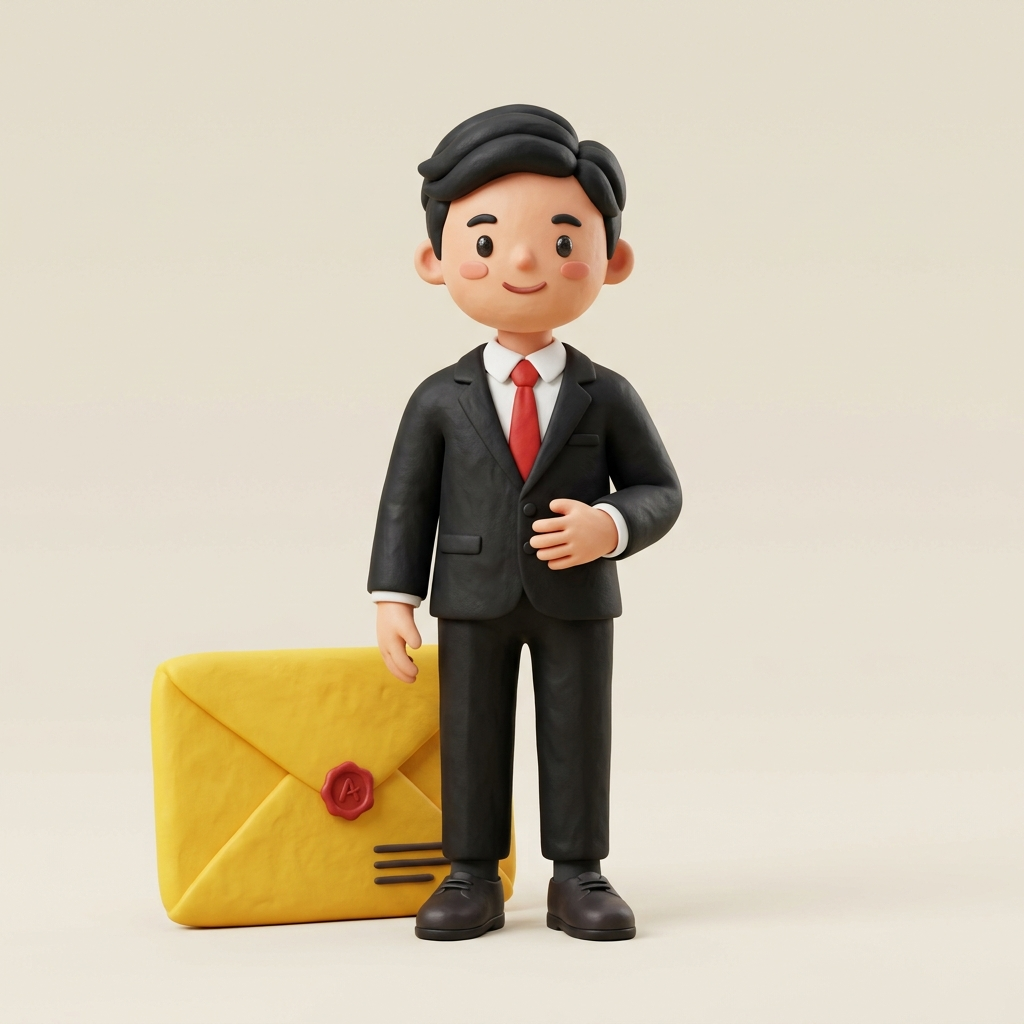
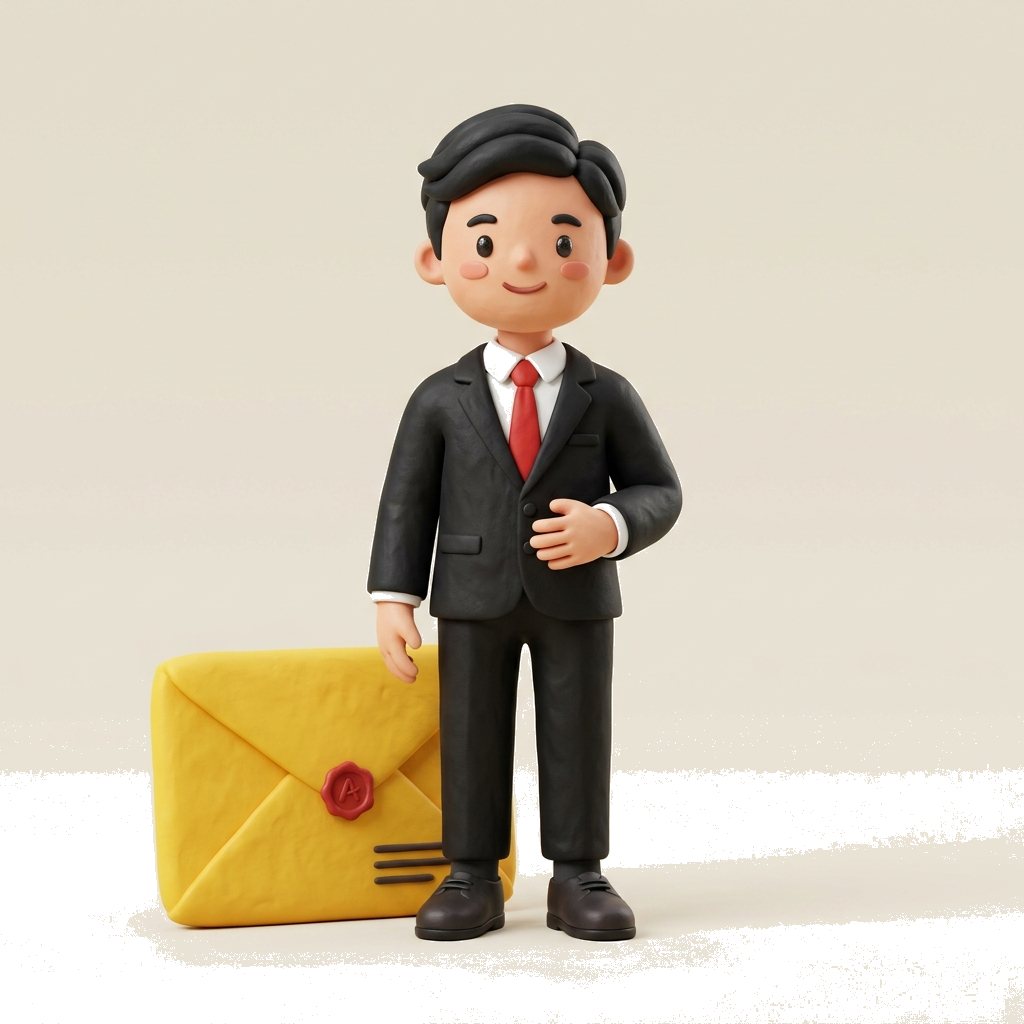
feat(domain): update all verification, update, and landing URLs to new lanpad.app domain & key out support character background

diff --git a/website-v2/src/app/landing2/page.tsx b/website-v2/src/app/landing2/page.tsx
@@ -1705,13 +1705,13 @@ export default function Landing2() {
               <div className="space-y-2 pt-4">
                 <span className="text-[9px] font-mono text-gray-400 font-bold uppercase tracking-wider block">One-Line Terminal Install:</span>
                 <div className="p-3 clay-card shadow-[inset_2px_2px_4px_rgba(0,0,0,0.05)] rounded-xl font-mono text-[9px] text-gray-600 break-all select-all leading-normal border border-white/20">
-                  curl -sSL lanpad.vercel.app/mac | bash
+                  curl -sSL lanpad.app/mac | bash
                 </div>
               </div>
             </div>
 
             <button 
-              onClick={() => copyCommandToClipboard("curl -sSL lanpad.vercel.app/mac | bash")}
+              onClick={() => copyCommandToClipboard("curl -sSL lanpad.app/mac | bash")}
               className="mt-8 w-full clay-orange text-white font-black py-4.5 rounded-2xl text-sm transition-all hover:scale-105 active:scale-95 shadow-md flex items-center justify-center gap-2"
             >
               COPY MAC INSTALL CMD <ArrowRight size={14} />
@@ -1746,13 +1746,13 @@ export default function Landing2() {
               <div className="space-y-2 pt-4">
                 <span className="text-[9px] font-mono text-gray-400 font-bold uppercase tracking-wider block">One-Line Powershell Install:</span>
                 <div className="p-3 clay-card shadow-[inset_2px_2px_4px_rgba(0,0,0,0.05)] rounded-xl font-mono text-[9px] text-gray-600 break-all select-all leading-normal border border-white/20">
-                  powershell -c "irm lanpad.vercel.app/win | iex"
+                  powershell -c "irm lanpad.app/win | iex"
                 </div>
               </div>
             </div>
 
             <button 
-              onClick={() => copyCommandToClipboard('powershell -c "irm lanpad.vercel.app/win | iex"')}
+              onClick={() => copyCommandToClipboard('powershell -c "irm lanpad.app/win | iex"')}
               className="mt-8 w-full clay-blue text-white font-black py-4.5 rounded-2xl text-sm transition-all hover:scale-105 active:scale-95 shadow-md flex items-center justify-center gap-2"
             >
               COPY WIN INSTALL CMD <ArrowRight size={14} />

diff --git a/templates/index.html b/templates/index.html
@@ -648,7 +648,7 @@
     <div id="app-wrapper">
         <!-- Initial View -->
         <div id="initial-view" class="view active" style="overflow: hidden; position: relative;">
-            <div id="support-button-home" style="position: absolute; top: 20px; right: 20px; z-index: 10; background: var(--card-bg); border: 1px solid var(--border-color); border-radius: 12px; width: 44px; height: 44px; display: flex; align-items: center; justify-content: center; cursor: pointer; backdrop-filter: blur(20px); -webkit-backdrop-filter: blur(20px); transition: all 0.3s cubic-bezier(0.16, 1, 0.3, 1);" onclick="window.location.href='https://lanpad.vercel.app/support'">
+            <div id="support-button-home" style="position: absolute; top: 20px; right: 20px; z-index: 10; background: var(--card-bg); border: 1px solid var(--border-color); border-radius: 12px; width: 44px; height: 44px; display: flex; align-items: center; justify-content: center; cursor: pointer; backdrop-filter: blur(20px); -webkit-backdrop-filter: blur(20px); transition: all 0.3s cubic-bezier(0.16, 1, 0.3, 1);" onclick="window.location.href='https://lanpad.app/support'">
                 <i data-lucide="help-circle" style="color: var(--text-main);"></i>
             </div>
             <div id="notification-toggle-home" style="display: none; position: absolute; top: 20px; right: 75px; z-index: 10; background: var(--card-bg); border: 1px solid var(--border-color); border-radius: 12px; width: 44px; height: 44px; align-items: center; justify-content: center; cursor: pointer; backdrop-filter: blur(20px); -webkit-backdrop-filter: blur(20px); transition: all 0.3s cubic-bezier(0.16, 1, 0.3, 1);">

diff --git a/website-v2/src/app/privacy/page.tsx b/website-v2/src/app/privacy/page.tsx
@@ -184,7 +184,7 @@ export default function PrivacyPage() {
           <section className="space-y-3">
             <h2 className="text-xl font-bold text-[#C7EEFF] tracking-tight font-outfit">4. THIRD-PARTY INTEGRATIONS</h2>
             <p>
-              LANpad does not integrate with any external advertisement networks or tracking cookies (e.g. Google Analytics). The application may contact verification servers solely to check license validations (`https://lanpad.vercel.app/api/monetization/status`) or download updated web UI templates from GitHub repository. No private clipboard data is ever sent during these checks.
+              LANpad does not integrate with any external advertisement networks or tracking cookies (e.g. Google Analytics). The application may contact verification servers solely to check license validations (`https://lanpad.app/api/monetization/status`) or download updated web UI templates from GitHub repository. No private clipboard data is ever sent during these checks.
             </p>
           </section>
 

diff --git a/website-v2/src/app/page.tsx b/website-v2/src/app/page.tsx
@@ -1204,7 +1204,7 @@ export default function Home() {
                   title: "macOS Backend",
                   icon: <Monitor size={24} />,
                   label: "Copy Install Cmd",
-                  installCommand: "curl -sSL lanpad.vercel.app/mac | bash",
+                  installCommand: "curl -sSL lanpad.app/mac | bash",
                   version: "v1.5.8.7",
                   supported: "macOS 12.0+",
                   theme: "amber",
@@ -1215,7 +1215,7 @@ export default function Home() {
                   title: "Windows Backend",
                   icon: <Monitor size={24} />,
                   label: "Copy Install Cmd",
-                  installCommand: "powershell -c \"irm lanpad.vercel.app/win | iex\"",
+                  installCommand: "powershell -c \"irm lanpad.app/win | iex\"",
                   version: "v1.5.8.7",
                   supported: "Windows 10/11",
                   theme: "indigo",

diff --git a/website-v2/src/app/downloads/version.json/route.ts b/website-v2/src/app/downloads/version.json/route.ts
@@ -21,8 +21,8 @@ export async function GET(request: NextRequest) {
   // Fallback to default version 1.5.8.7 manifest
   const fallback = {
     version: "1.5.8.7",
-    windows_url: "https://lanpad.vercel.app/downloads/LANpad.exe",
-    mac_url: "https://lanpad.vercel.app/downloads/LANpad_macOS.dmg",
+    windows_url: "https://lanpad.app/downloads/LANpad.exe",
+    mac_url: "https://lanpad.app/downloads/LANpad_macOS.dmg",
     force_update: true,
     stable: true,
     changelog: "v1.5.8.7 - STABLE: Fixed double-trigger consent logging and added telemetry heartbeat loops."

diff --git a/launcher.py b/launcher.py
@@ -590,7 +590,7 @@ class LANpadLauncher:
             try:
                 import urllib.request
                 import json
-                req = urllib.request.Request("https://lanpad.vercel.app/api/monetization/status", headers={"User-Agent": "LANpad App"})
+                req = urllib.request.Request("https://lanpad.app/api/monetization/status", headers={"User-Agent": "LANpad App"})
                 with urllib.request.urlopen(req, timeout=2) as resp:
                     status_data = json.loads(resp.read().decode("utf-8"))
                     if not status_data.get("monetization_enabled", False):
@@ -1439,9 +1439,9 @@ class LANpadLauncher:
             free_enabled = False
             import sys
             if getattr(sys, 'frozen', False):
-                urls = ["https://lanpad.vercel.app"]
+                urls = ["https://lanpad.app"]
             else:
-                urls = ["http://127.0.0.1:3000", "https://lanpad.vercel.app"]
+                urls = ["http://127.0.0.1:3000", "https://lanpad.app"]
             for base_url in urls:
                 try:
                     req = urllib.request.Request(f"{base_url}/api/monetization/status", headers={"User-Agent": "LANpad App"})
@@ -1879,7 +1879,7 @@ class LANpadLauncher:
         # Web Link
         def open_pricing():
             import webbrowser
-            webbrowser.open("https://lanpad.vercel.app/pricing")
+            webbrowser.open("https://lanpad.app/pricing")
             
         get_btn = tk.Button(v, text="Get Activation Key", fg="#8A8A93", activeforeground=self.WHITE, bg="#0D0D10", activebackground="#0D0D10", font=(self.FU, 11, "underline"), bd=0, highlightthickness=0, command=open_pricing, cursor="hand2")
         get_btn.place(x=48, y=logo_y + 415, width=W - 96, height=30)
@@ -2016,9 +2016,9 @@ class LANpadLauncher:
                 }).encode("utf-8")
                 
                 if getattr(sys, 'frozen', False):
-                    urls = ["https://lanpad.vercel.app/api/telemetry"]
+                    urls = ["https://lanpad.app/api/telemetry"]
                 else:
-                    urls = ["http://127.0.0.1:3000/api/telemetry", "https://lanpad.vercel.app/api/telemetry"]
+                    urls = ["http://127.0.0.1:3000/api/telemetry", "https://lanpad.app/api/telemetry"]
                     
                 for url in urls:
                     try:
@@ -2167,9 +2167,9 @@ class LANpadLauncher:
                 free_enabled = False
                 import sys
                 if getattr(sys, 'frozen', False):
-                    urls = ["https://lanpad.vercel.app"]
+                    urls = ["https://lanpad.app"]
                 else:
-                    urls = ["http://127.0.0.1:3000", "https://lanpad.vercel.app"]
+                    urls = ["http://127.0.0.1:3000", "https://lanpad.app"]
                 
                 for base_url in urls:
                     try:
@@ -2283,9 +2283,9 @@ class LANpadLauncher:
         hwid = get_hardware_id()
         payload = json.dumps({"key": key, "hwid": hwid}).encode("utf-8")
         if getattr(sys, 'frozen', False):
-            urls = ["https://lanpad.vercel.app/api/monetization/verify"]
+            urls = ["https://lanpad.app/api/monetization/verify"]
         else:
-            urls = ["http://127.0.0.1:3000/api/monetization/verify", "https://lanpad.vercel.app/api/monetization/verify"]
+            urls = ["http://127.0.0.1:3000/api/monetization/verify", "https://lanpad.app/api/monetization/verify"]
         
         last_error = "Invalid or expired activation key"
         for url in urls:
@@ -2320,9 +2320,9 @@ class LANpadLauncher:
                 monetization_enabled = False
                 free_enabled = False
                 if getattr(sys, 'frozen', False):
-                    urls = ["https://lanpad.vercel.app"]
+                    urls = ["https://lanpad.app"]
                 else:
-                    urls = ["http://127.0.0.1:3000", "https://lanpad.vercel.app"]
+                    urls = ["http://127.0.0.1:3000", "https://lanpad.app"]
                 
                 for base_url in urls:
                     try:
@@ -2716,7 +2716,7 @@ class LANpadLauncher:
         def _thread():
             try:
                 import json
-                url = "https://lanpad.vercel.app/downloads/version.json"
+                url = "https://lanpad.app/downloads/version.json"
                 req = urllib.request.Request(
                     url, 
                     headers={'User-Agent': 'Mozilla/5.0'}

diff --git a/app.py b/app.py
@@ -143,7 +143,7 @@ def get_license_tier():
     try:
         import urllib.request
         import json
-        req = urllib.request.Request("https://lanpad.vercel.app/api/monetization/status", headers={"User-Agent": "LANpad App"})
+        req = urllib.request.Request("https://lanpad.app/api/monetization/status", headers={"User-Agent": "LANpad App"})
         with urllib.request.urlopen(req, timeout=2) as resp:
             data = json.loads(resp.read().decode("utf-8"))
             if not data.get("monetization_enabled", False):
@@ -206,7 +206,7 @@ def get_cloud_limits(tier):
         try:
             import urllib.request
             import json
-            req = urllib.request.Request("https://lanpad.vercel.app/api/monetization/status", headers={"User-Agent": "LANpad App"})
+            req = urllib.request.Request("https://lanpad.app/api/monetization/status", headers={"User-Agent": "LANpad App"})
             with urllib.request.urlopen(req, timeout=2) as resp:
                 data = json.loads(resp.read().decode("utf-8"))
                 CLOUD_LIMITS_CACHE = {
@@ -440,9 +440,9 @@ async def lifespan(app: FastAPI):
                         }).encode("utf-8")
                         
                         if getattr(sys, 'frozen', False):
-                            urls = ["https://lanpad.vercel.app/api/telemetry"]
+                            urls = ["https://lanpad.app/api/telemetry"]
                         else:
-                            urls = ["http://127.0.0.1:3000/api/telemetry", "https://lanpad.vercel.app/api/telemetry"]
+                            urls = ["http://127.0.0.1:3000/api/telemetry", "https://lanpad.app/api/telemetry"]
                             
                         for url in urls:
                             try:
@@ -560,9 +560,9 @@ def log_telemetry_event_async(event):
             }).encode("utf-8")
             
             if getattr(sys, 'frozen', False):
-                urls = ["https://lanpad.vercel.app/api/telemetry"]
+                urls = ["https://lanpad.app/api/telemetry"]
             else:
-                urls = ["http://127.0.0.1:3000/api/telemetry", "https://lanpad.vercel.app/api/telemetry"]
+                urls = ["http://127.0.0.1:3000/api/telemetry", "https://lanpad.app/api/telemetry"]
                 
             for url in urls:
                 try:
@@ -644,7 +644,7 @@ async def get_api_vitcodes(request: Request):
     urls = []
     if custom_url:
       urls.append(custom_url.rstrip("/") + "/api/vitcodes")
-    urls.append("https://lanpad.vercel.app/api/vitcodes")
+    urls.append("https://lanpad.app/api/vitcodes")
     urls.append("http://localhost:3000/api/vitcodes")
 
     async def fetch_one(client, url):
@@ -695,7 +695,7 @@ async def get_api_vitcodes_rules(request: Request):
     urls = []
     if custom_url:
         urls.append(custom_url.rstrip("/") + "/api/vitcodes/rules")
-    urls.append("https://lanpad.vercel.app/api/vitcodes/rules")
+    urls.append("https://lanpad.app/api/vitcodes/rules")
     urls.append("http://localhost:3000/api/vitcodes/rules")
 
     async def fetch_one(client, url):

diff --git a/main.py b/main.py
@@ -120,7 +120,7 @@ def is_currently_licensed() -> bool:
     monetization_enabled = False
     free_enabled = False
     try:
-        req = urllib.request.Request("https://lanpad.vercel.app/api/monetization/status", headers={"User-Agent": "LANpad App"})
+        req = urllib.request.Request("https://lanpad.app/api/monetization/status", headers={"User-Agent": "LANpad App"})
         with urllib.request.urlopen(req, timeout=2) as resp:
             data = json.loads(resp.read().decode("utf-8"))
             monetization_enabled = data.get("monetization_enabled", False)

diff --git a/test_verify.py b/test_verify.py
@@ -11,7 +11,7 @@ def safe_urlopen(url_or_req, timeout=4):
             return urllib.request.urlopen(url_or_req, timeout=timeout)
         raise e
 
-urls = ["http://127.0.0.1:3000/api/monetization/verify", "https://lanpad.vercel.app/api/monetization/verify"]
+urls = ["http://127.0.0.1:3000/api/monetization/verify", "https://lanpad.app/api/monetization/verify"]
 payload = json.dumps({"key": "LP-BASIC-I7XZB4OS-QBGV"}).encode("utf-8")
 
 for url in urls:

diff --git a/LEGAL_TEMPLATES/PRIVACY_POLICY.md b/LEGAL_TEMPLATES/PRIVACY_POLICY.md
@@ -104,7 +104,7 @@ Developer **will NEVER**:
 LANpad **does not intentionally integrate with third-party services** for data transmission. However:
 
 - **Browser extension permissions** — The LANpad Chrome extension requests `clipboardRead` and `clipboardWrite` permissions from your browser (not shared with Developer)
-- **License verification** — LANpad may contact `https://lanpad.vercel.app/api/monetization/status` to check if monetization is enabled (no personal data sent)
+- **License verification** — LANpad may contact `https://lanpad.app/api/monetization/status` to check if monetization is enabled (no personal data sent)
 - **Template updates** — LANpad may fetch UI templates from GitHub or a custom server (no personal data sent)
 
 ### 5.2 No Third-Party Cookies or Tracking

diff --git a/LEGAL_COMPLIANCE_AUDIT_FINAL.md b/LEGAL_COMPLIANCE_AUDIT_FINAL.md
@@ -168,7 +168,7 @@ allow_origins=["*"],
 # To:
 allow_origins=[],  # No public API access (local-only)
 # If you need any web access, restrict to specific domains:
-# allow_origins=["http://localhost:3000", "https://lanpad.vercel.app"],
+# allow_origins=["http://localhost:3000", "https://lanpad.app"],
 ```
 
 **Impact of Fix:**
